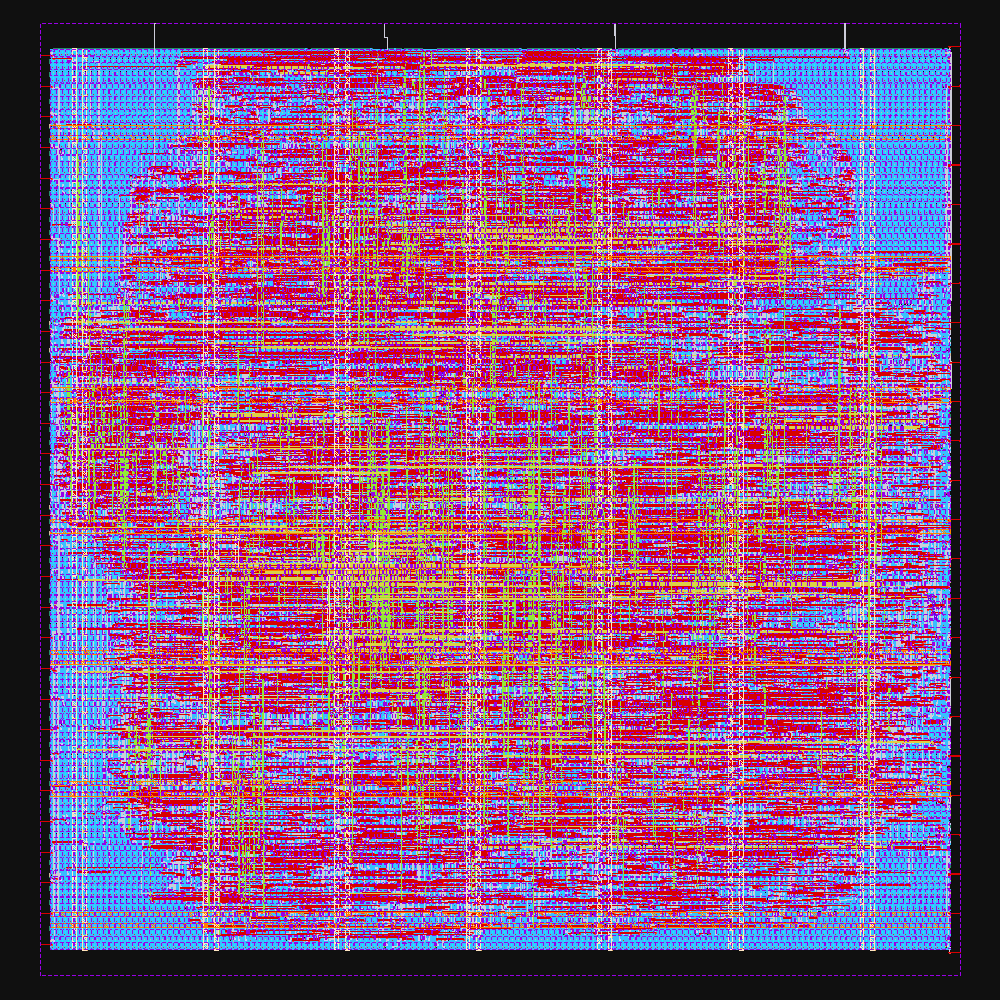
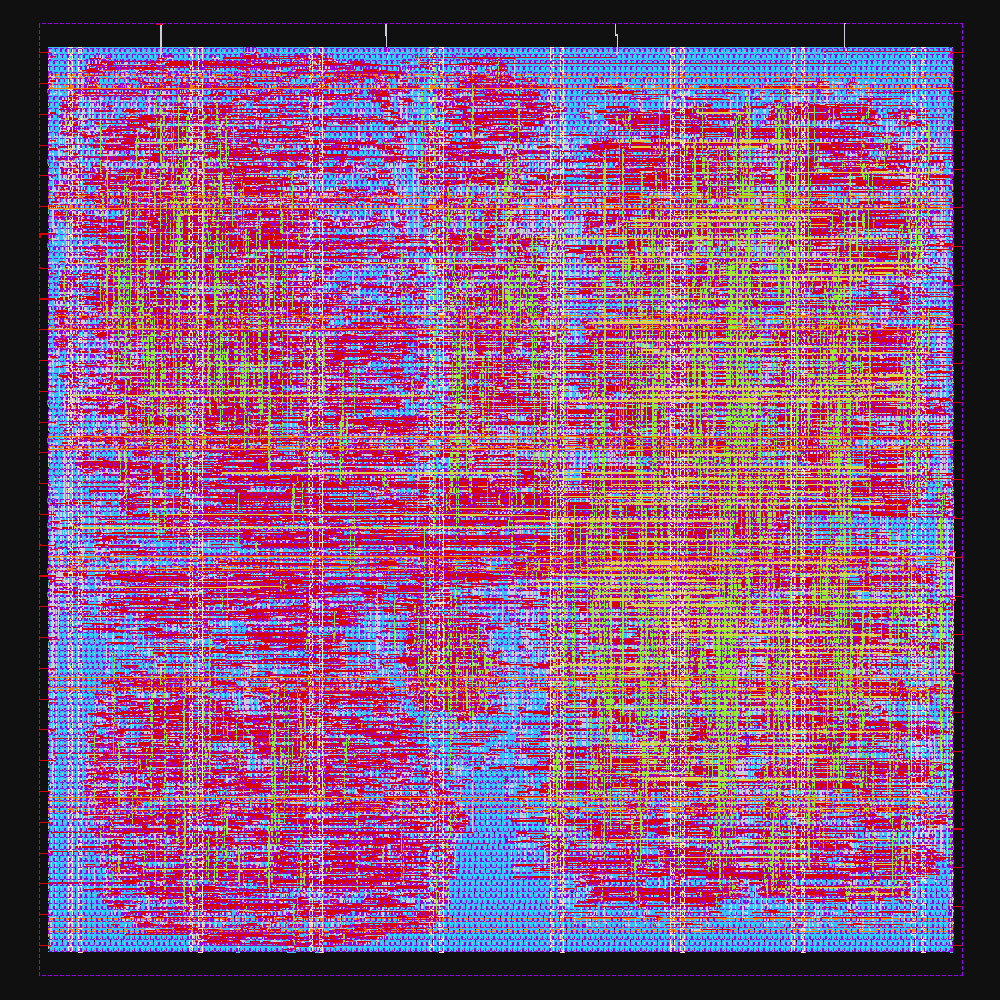
Update the README and docs for the 121 MHz design
- Status, architecture and verification sections describe the fused
  multiply-add pipeline (36 instructions, 38 cycles per iteration), the
  forwarding, the one-hot read ports and the gate-level simulations with
  typical- and fast-corner delays.
- Physical implementation: signoff table of the 121 MHz run, the single
  timing exception and why it holds, the layout image rendered from the
  final GDS, and what a shuttle submission would still need (pad ring, seal
  ring, fill and density checks).
- Power: 1.97 nJ per iteration with SDF-annotated activity (12.8x less
  than the first open-source version, 32 % less than the first pipelined
  one), 0.17 mW idle, and where the energy of an iteration goes.
- The audit's size comparison uses the current generic synthesis counts.

diff --git a/README.md b/README.md
@@ -17,13 +17,13 @@ on the **IHP SG13G2** 130 nm open PDK.
 
 | Stage | Tools | Result |
 |---|---|---|
-| Microcode | `kfasic.asm` (this repo) | 47 instructions, **49 cycles** per filter iteration (original: 188) |
+| Microcode | `kfasic.asm` (this repo) | 36 instructions, **38 cycles** per filter iteration, no stall (original: 188) |
 | Lint | Verilator `-Wall`, Yosys `check -assert` | clean, no combinational loops |
 | RTL verification | cocotb 2.1 on Icarus Verilog **and** Verilator | bit- and cycle-exact against the golden model; random-program differential tests of the pipeline; bit-exact against the original design's 5000-iteration run |
-| RTL → GDS | LibreLane 3.0.17 (Yosys, OpenROAD) | 0.34 mm² macro, **100 MHz** |
-| Signoff | OpenSTA (3 corners), KLayout + Magic DRC, Netgen LVS | timing met at all corners; DRC, LVS, antenna clean |
-| Gate-level simulation | cocotb + Icarus on the routed netlist | the same black-box tests pass, also with back-annotated delays at 100 MHz |
-| Power | OpenSTA with SDF-annotated simulated activity | **2.15 nJ per iteration** (glitches included), 0.15 mW idle |
+| RTL → GDS | LibreLane 3.0.17 (Yosys, OpenROAD) | 0.35 mm² macro, **121 MHz** |
+| Signoff | OpenSTA (3 corners), KLayout + Magic DRC, Netgen LVS | timing, slew, capacitance and fanout met at all corners; DRC, LVS, antenna clean |
+| Gate-level simulation | cocotb + Icarus on the routed netlist | the same black-box tests pass, also with typical- and fast-corner delays at 121 MHz |
+| Power | OpenSTA with SDF-annotated simulated activity | **1.97 nJ per iteration** (glitches included), 0.17 mW idle |
 
 ## The filter
 
@@ -49,30 +49,34 @@ golden model that the RTL matches bit for bit.*
 ## Architecture
 
 A microcoded multiply-accumulate machine derived from the paper's design.
-A sequencer reads a 256 × 21 ROM into an instruction register (prefetched,
+A sequencer reads a 256 × 26 ROM into an instruction register (prefetched,
 so no cycle is lost). A 32 × 24-bit register file holds the state, the
-parameters and temporaries; it has two read ports for the datapath and one
-for the host. The datapath is a three-stage pipeline:
+parameters and temporaries. Every instruction is a fused multiply-add,
+ACC ← {0, ACC, C} ± A·B with B a register, 1/S or 1.0, executed by a
+three-stage pipeline:
 
-1. read two operands;
-2. multiply, or add/subtract;
+1. read operands A and B;
+2. multiply, and read the addend C;
 3. accumulate and write back.
 
-A separate radix-8 unit computes 1/S in 8 cycles while the pipeline keeps
-working.  Numbers are 24-bit sign-magnitude Q9.14, as in the paper.
+Results are forwarded from the last stage, so an instruction only waits if
+it needs the result of the one just before it.  A separate radix-8 unit
+computes 1/S in 7 cycles while the pipeline keeps working.  Numbers are
+24-bit sign-magnitude Q9.14, as in the paper.
 
 The microcode uses the symmetry of the covariance matrices and evaluates
-P⁺ = P⁻ − K(P⁻Hᵀ)ᵀ.  In exact arithmetic this is identical to the textbook
-equations, and it needs 49 cycles per iteration instead of 188.
+P⁺ = P⁻ − K(P⁻Hᵀ)ᵀ; in exact arithmetic this is identical to the textbook
+equations.  Fusing the additions of Q, R, y, x⁻ and P⁻ into the multiply-adds
+and ordering the dot products so that nothing waits gives 36 instructions
+and 38 cycles per iteration, instead of 188.
 
 For low power, every register group is clock-gated (one gate per
 register-file entry, gates for the operand, result, accumulator, reciprocal
 and control registers) behind a core clock gate that stops the clock while
-idle.  The multiplier and the adder have separate operand registers, so only
-the unit in use sees new data.  The register-file read ports decode their
-address one-hot, so a new address toggles two select lines instead of
-select lines that reach every bit, and the instruction register keeps the
-ROM's glitches out of them.  The assembler encodes unused instruction fields
+idle.  The register-file read ports decode their address one-hot, so a
+new address toggles two select lines instead of select lines that reach
+every bit, and the instruction register keeps the ROM's glitches out of
+them.  The assembler encodes unused instruction fields
 and the order of commutative operands so that as few bits as possible change
 from one instruction to the next.
 
@@ -104,9 +108,9 @@ for bit and `kfasic/iss.py` models the pipeline cycle for cycle.
   Inputs change on the falling clock edge, and the tests pass on both Icarus
   and Verilator, so they do not depend on simulator event ordering.
 * The same black-box tests run on the final gate-level netlist (`make gls`),
-  and on the netlist back-annotated with the typical-corner delays at the
-  design's clock period (`make gls SDF=1`), which exercises the clock gating,
-  resets and hold paths with real timing.
+  and on the netlist back-annotated with the typical- and the fast-corner
+  delays at the design's clock period (`make gls SDF=1`, `SDF_CORNER=...`),
+  which exercises the clock gating, resets and hold paths with real timing.
 * The cell-level register-file read port used in the IHP flow is proven
   equal to its RTL with a SAT miter (`make equiv`).
 
@@ -117,32 +121,67 @@ Hardened as a standalone macro (no pad ring) with LibreLane 3.0.17: Yosys
 1.5.316, on the IHP SG13G2 PDK as pinned by LibreLane.  The clock gates map to
 the PDK's integrated clock-gating cell `sg13g2_lgcp_1`.  Configuration and
 constraints: [`flow/ihp-sg13g2/`](flow/ihp-sg13g2/).  Synthesis uses ABC's
-`AREA 3` script (delay-driven mapping); the clock trees are built from
-small buffers without latency-balancing buffers, which cut clock power
-several-fold.
+`AREA 3` script (delay-driven mapping); the clock trees are built from 4x
+and 2x buffers instead of the 16x buffers of the IHP default, which cuts
+clock power several-fold.
 
 | Metric | Value |
 |---|---|
-| Clock | 10 ns (100 MHz) |
-| Die | 0.342 mm², 50.8 % core utilization |
-| Cells | 29,781 including fill, decap and tap cells; 161,222 µm² |
-| Setup / hold WNS, slow 1.08 V / 125 °C | +0.19 / +0.23 ns |
-| Setup / hold WNS, typical 1.20 V / 25 °C | +3.04 / +0.28 ns |
-| Setup / hold WNS, fast 1.32 V / −40 °C | +4.68 / +0.11 ns |
+| Clock | 8.25 ns (121 MHz) |
+| Die | 0.346 mm² (579 × 598 µm), 50.0 % core utilization |
+| Cells | 30,792 including fill, decap and tap cells; 160,705 µm² |
+| Setup / hold WNS, slow 1.08 V / 125 °C | +0.11 / +0.11 ns |
+| Setup / hold WNS, typical 1.20 V / 25 °C | +2.51 / +0.26 ns |
+| Setup / hold WNS, fast 1.32 V / −40 °C | +3.84 / +0.09 ns |
 | Max slew / max capacitance violations | 0 / 0 |
+| Nets above the library's fanout guideline (8) | 0 |
 | Routing DRC, Magic DRC, KLayout DRC | 0, 0, 0 |
 | LVS (Netgen) | clean |
 | Antenna violations | 0 |
 | Magic vs KLayout GDS (XOR) | identical |
-| Worst IR drop | 1.8 mV |
-| Throughput | 50 cycles per iteration (START to READY) → 2.0 M iterations/s |
+| Worst IR drop | 2.5 mV |
+| Throughput | 39 cycles per iteration (START to READY) → 3.1 M iterations/s |
 
 Timing includes ±5 % derate and 0.25 ns clock uncertainty and is signed off
 at all three corners (the IHP default checks setup only at typical).
+Besides the asynchronous reset input, the constraints
+([`kf_top.sdc`](flow/ihp-sg13g2/kf_top.sdc)) contain one exception: hold
+checks from the register file to the operand registers are waived, because
+forwarding guarantees that an operand register never captures a register
+on the edge that writes it; without the waiver, hold repair put delay cells
+into the read ports on the critical path.  Gate-level simulation with
+fast-corner delays confirms it.  At 8 ns only the multiplier path
+(operand register → Booth/Wallace multiplier → result register) still
+fails; the other pipeline stages have been brought to the same length.
 `make summary` regenerates this table from a run.
+
+![Layout](docs/img/layout.png)
+
+*The routed macro, rendered from the final GDS with KLayout
+(`flow/render_gds.py`).*
 
 For comparison, the paper's chip (0.5 µm, 3 metal layers) ran at up to
 20 MHz in 5.6 mm² and needed 113 cycles per iteration.
+
+### Tapeout readiness
+
+The macro passes every check that applies to a hardened block:
+
+* static timing at all three corners (setup, hold, slew, capacitance), with
+  on-chip-variation derate and clock uncertainty;
+* DRC with IHP's KLayout deck (FEOL and BEOL rules; recommended rules off,
+  as in LibreLane's IHP flow) and with Magic, LVS with Netgen, antenna
+  rules, Magic-vs-KLayout GDS XOR, IR drop;
+* dynamic checks: the routed netlist, back-annotated with the typical- and
+  the fast-corner delays, passes the black-box tests at the design clock
+  (`make gls SDF=1`), and the hand-instantiated read-port cells are
+  formally equivalent to their RTL (`make equiv`).
+
+For a shuttle submission it still has to be integrated into a chip: pad
+ring (IHP's `sg13g2_io` cells), seal ring, and metal/active fill checked
+against the density rules (IHP's `density.drc`), all of which apply to the
+whole die.  With 58 signal pins, a pad-limited die would also call for a
+narrower host interface (for example byte-wide or serial).
 
 ## Power
 
@@ -151,20 +190,37 @@ with the typical-corner SDF delays so that the recorded switching activity
 includes glitches, and has OpenSTA compute power with the extracted
 parasitics at the typical corner.  (Zero-delay activity, `--zero-delay`,
 misses them and underestimates the combinational power by 35–65 % for these
-designs.)  All
-versions below are measured this way: the first open-source version
-(single-cycle datapath, 188-cycle microcode, no clock gating; commit
+designs.)  All versions below are measured this way: the first open-source
+version (single-cycle datapath, 188-cycle microcode, no clock gating; commit
 `5330f70`), the first pipelined version (commit `2160277`) and the current
 one.
 
 | | first version | pipelined | current |
 |---|---|---|---|
-| Clock | 50 MHz | 66.7 MHz | 100 MHz |
-| Cycles per iteration (incl. host write of y) | 191 | 53 | 52 |
-| Power while filtering | 6.61 mW | 3.65 mW | 4.14 mW |
-| **Energy per iteration** | **25.3 nJ** | **2.90 nJ** | **2.15 nJ** (11.7× less than the first) |
-| Idle power (clock running) | 3.13 mW | 0.36 mW | 0.15 mW |
-| Leakage | 8.6 µW | 9.4 µW | 10.8 µW |
+| Clock | 50 MHz | 66.7 MHz | 121 MHz |
+| Cycles per iteration (incl. host write of y) | 191 | 53 | 41 |
+| Power while filtering | 6.61 mW | 3.65 mW | 5.82 mW |
+| **Energy per iteration** | **25.3 nJ** | **2.90 nJ** | **1.97 nJ** (12.8× less than the first) |
+| Idle power (clock running) | 3.13 mW | 0.36 mW | 0.17 mW |
+| Leakage | 8.6 µW | 9.4 µW | 11.0 µW |
+
+Where the 1.97 nJ of an iteration go (`make power`, which attributes each
+cell to a block by the registers in its fan-in cone):
+
+| Block | pJ | Share |
+|---|---|---|
+| Multiplier | 659 | 33 % |
+| Flip-flops | 454 | 23 % |
+| Clock trees and clock gates | 254 | 13 % |
+| ROM, decode, register reads | 174 | 9 % |
+| Accumulate (WB adder) | 168 | 9 % |
+| Write-back, forwarding and data-in multiplexers | 145 | 7 % |
+| Reciprocal unit | 73 | 4 % |
+| Hold-fix delay cells, control, fill, I/O | 42 | 2 % |
+
+Most of the multiplier's share is glitching in the Wallace tree.  Before
+the one-hot read ports and the instruction register (the RTL of commit
+`f94aa72`, hardened at 100 MHz), the ROM and the register reads took 40 %.
 
 ## Quick start
 

diff --git a/docs/legacy-audit.md b/docs/legacy-audit.md
@@ -38,7 +38,7 @@ outside the university environment.
 
 | | Course version | This version |
 |---|---|---|
-| Flip-flops (Yosys generic synthesis) | 5,054, all clocked every cycle | 1,077, behind 43 clock gates |
-| Generic cells (Yosys) | 25,096 | 12,306 |
+| Flip-flops (Yosys generic synthesis) | 5,054, all clocked every cycle | 1,072, behind 43 clock gates |
+| Generic cells (Yosys) | 25,096 | 12,355 |
 | Signal pins | 91 | 58 |
 | Cycles per iteration | 195 | 38 (+1 input register) |
